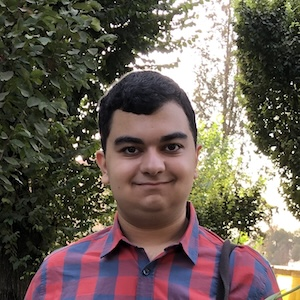
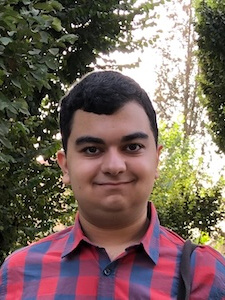
Fixed pictures

diff --git a/README.md b/README.md
@@ -96,35 +96,35 @@ Only work done during hackathon will be considered (and should be made explicit)
   <tr>
     <td align="center" width="20%">
       <a href="https://people.epfl.ch/andrea.cavallaro">
-        <img src="./photos/Andrea_Cavallaro.jpg" width="140" height="140" style="object-fit:cover;" alt="Prof. Andrea Cavallaro"/>
+        <img src="./photos/Andrea_Cavallaro.jpg" style="object-fit:cover;" alt="Prof. Andrea Cavallaro"/>
         <br/>
         <sub><b>Prof. Andrea Cavallaro</b></sub>
       </a>
     </td>
     <td align="center" width="20%">
       <a href="https://zurich.impacthub.ch/en/community/beat-seeliger/">
-        <img src="./photos/Beat_Seeliger.jpg" width="140" height="140" style="object-fit:cover;" alt="Beat Seeliger"/>
+        <img src="./photos/Beat_Seeliger.jpg" alt="Beat Seeliger"/>
         <br/>
         <sub><b>Beat Seeliger</b></sub>
       </a>
     </td>
     <td align="center" width="20%">
       <a href="https://www.open-systems.com/leadership/marta-martinez/">
-        <img src="./photos/Marta_Martinez.jpg" width="140" height="140" style="object-fit:cover;" alt="Marta Martinez"/>
+        <img src="./photos/Marta_Martinez.jpg" alt="Marta Martinez"/>
         <br/>
         <sub><b>Marta Martinez</b></sub>
       </a>
     </td>
     <td align="center" width="20%">
       <a href="https://www.linkedin.com/in/danieldobos/">
-        <img src="./photos/Daniel_Dobos.jpg" width="140" height="140" style="object-fit:cover;" alt="Dr. Daniel Dobos"/>
+        <img src="./photos/Daniel_Dobos.jpg" alt="Dr. Daniel Dobos"/>
         <br/>
         <sub><b>Dr. Daniel Dobos</b></sub>
       </a>
     </td>
     <td align="center" width="20%">
       <a href="https://people.epfl.ch/seyed.neshaei">
-        <img src="./photos/Seyed Parsa Neshaei.jpg" width="140" height="140" style="object-fit:cover;" alt="Seyed Parsa Neshaei"/>
+        <img src="./photos/Seyed Parsa Neshaei.jpg" alt="Seyed Parsa Neshaei"/>
         <br/>
         <sub><b>Seyed Parsa Neshaei</b></sub>
       </a>
@@ -138,18 +138,25 @@ A BIG thank you to the [EPFL AI Team](https://epflaiteam.ch) for co-hosting the 
 
 <table align="center">
   <tr>
-    <td align="center" valign="top" width="50%">
+    <td align="center" width="10%">
+      <a href="https://www.swisscom.ch/en/residential.html">
+        <img src="./photos/Swisscom.png" alt="Swisscom" height="134.4px"/>
+        <br/>
+        <sub><b>Swisscom</b></sub>
+      </a>
+    </td>
+    <td align="center" width="10%">
       <a href="https://swiss-ai-weeks.ch/">
-        <img src="photos/SaW.png" alt="Swiss {ai} Weeks" width="120px">
-        <br>
+        <img src="./photos/SaW.png" alt="Swiss {ai} Weeks" height="134.4px"/>
+        <br/>
         <sub><b>Swiss {ai} Weeks</b></sub>
       </a>
     </td>
-    <td align="center" valign="top" width="50%">
-      <a href="https://www.swisscom.ch">
-        <img src="photos/Swisscom.png" alt="Swisscom" width="120px">
-        <br>
-        <sub><b>Swisscom</b></sub>
+    <td align="center" width="10%">
+      <a href="https://people.epfl.ch/seyed.neshaei">
+        <img src="./photos/cdv.svg" height="134.4px" alt="Canton de Vaud"/>
+        <br/>
+        <sub><b>Canton de Vaud</b></sub>
       </a>
     </td>
   </tr>
